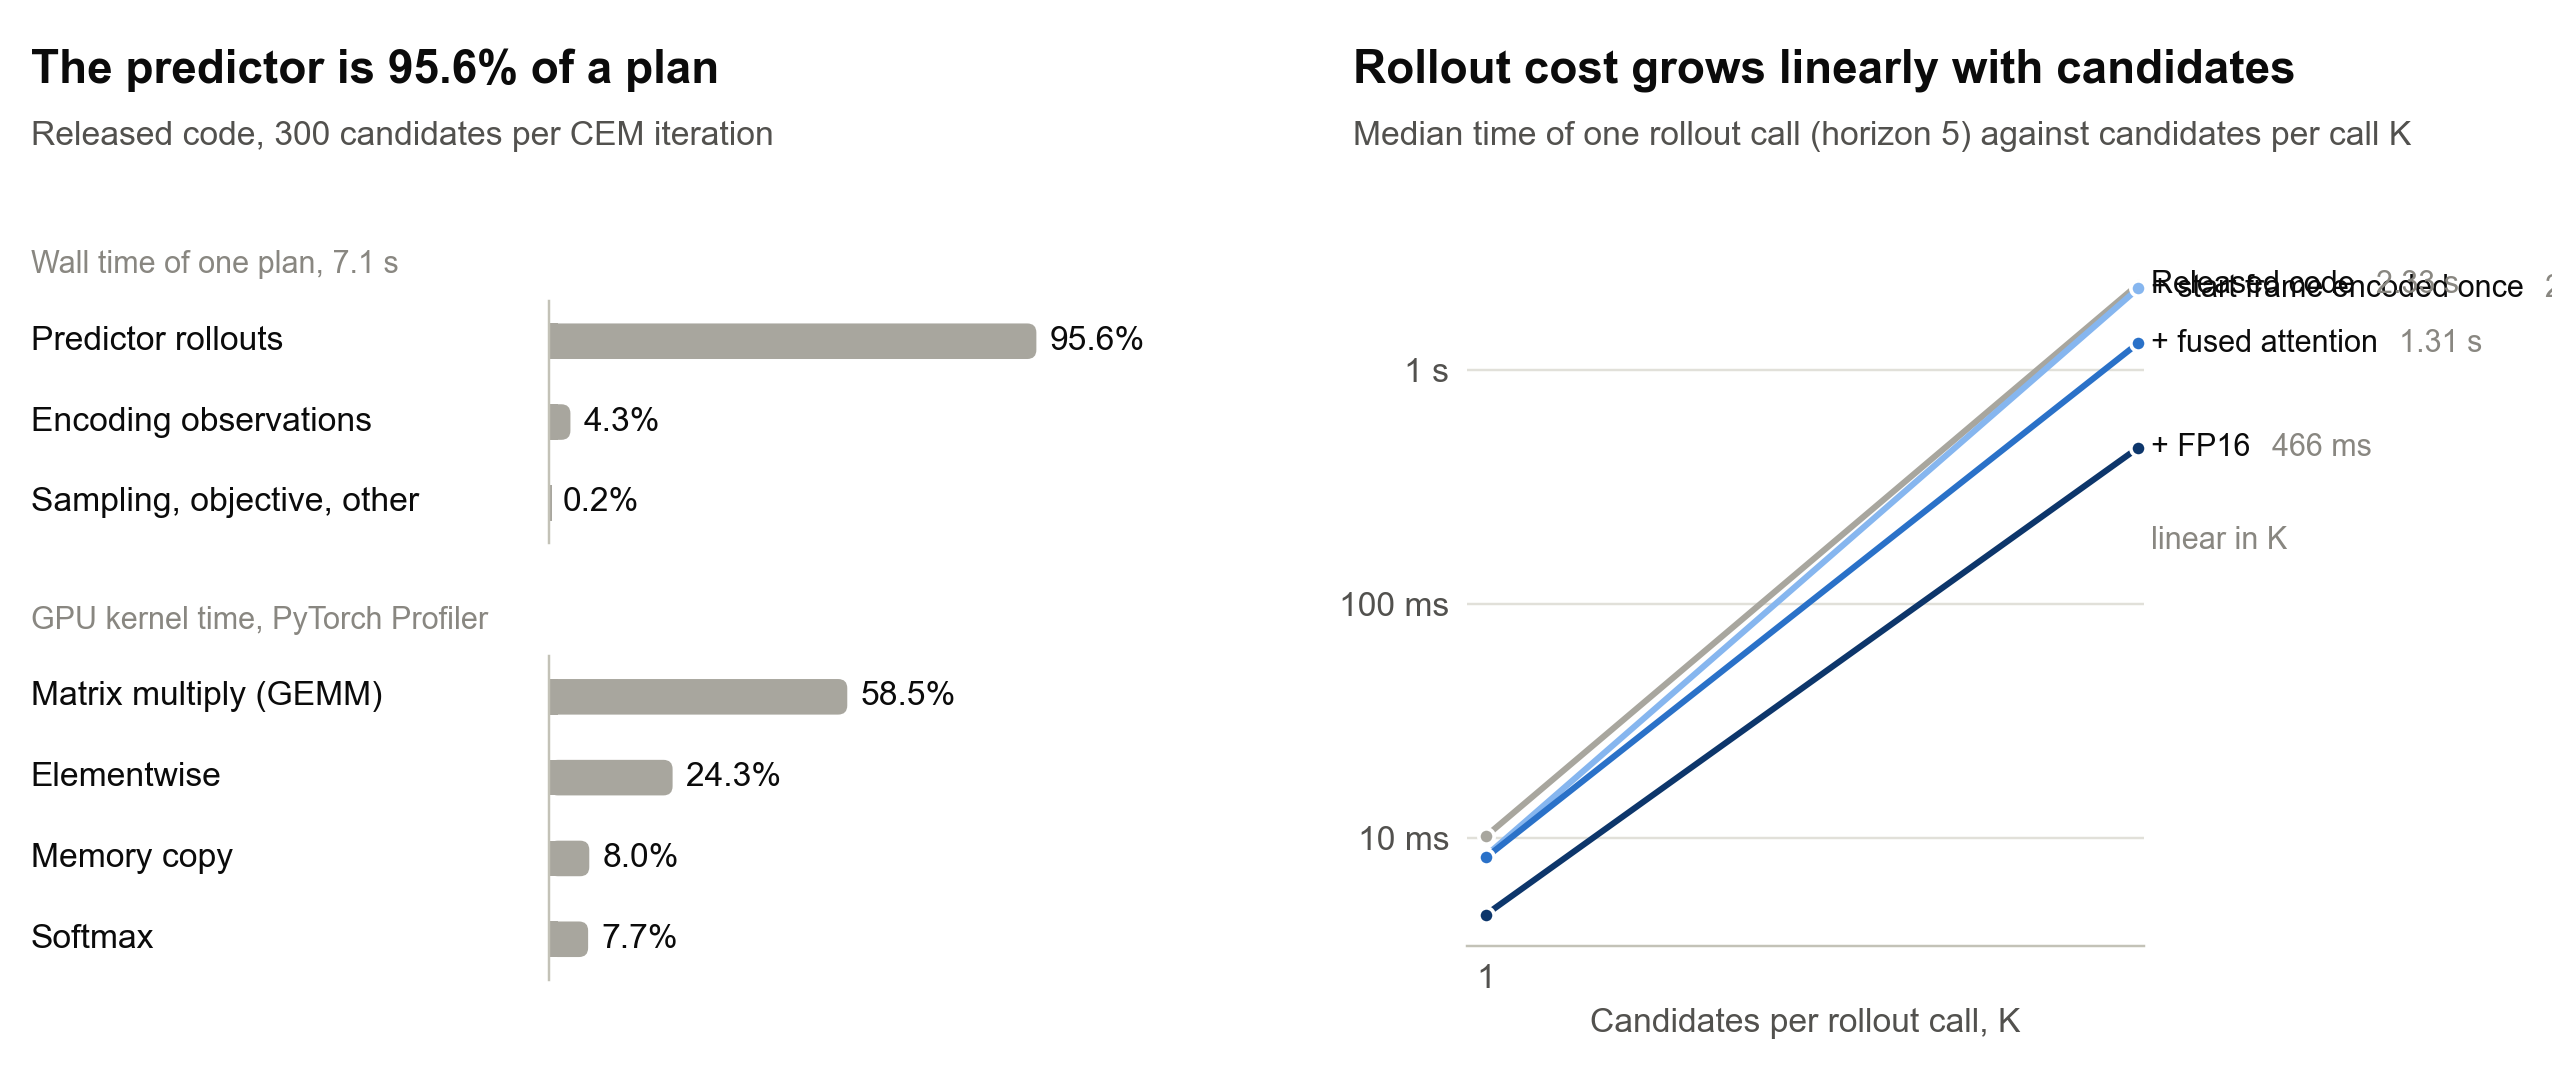
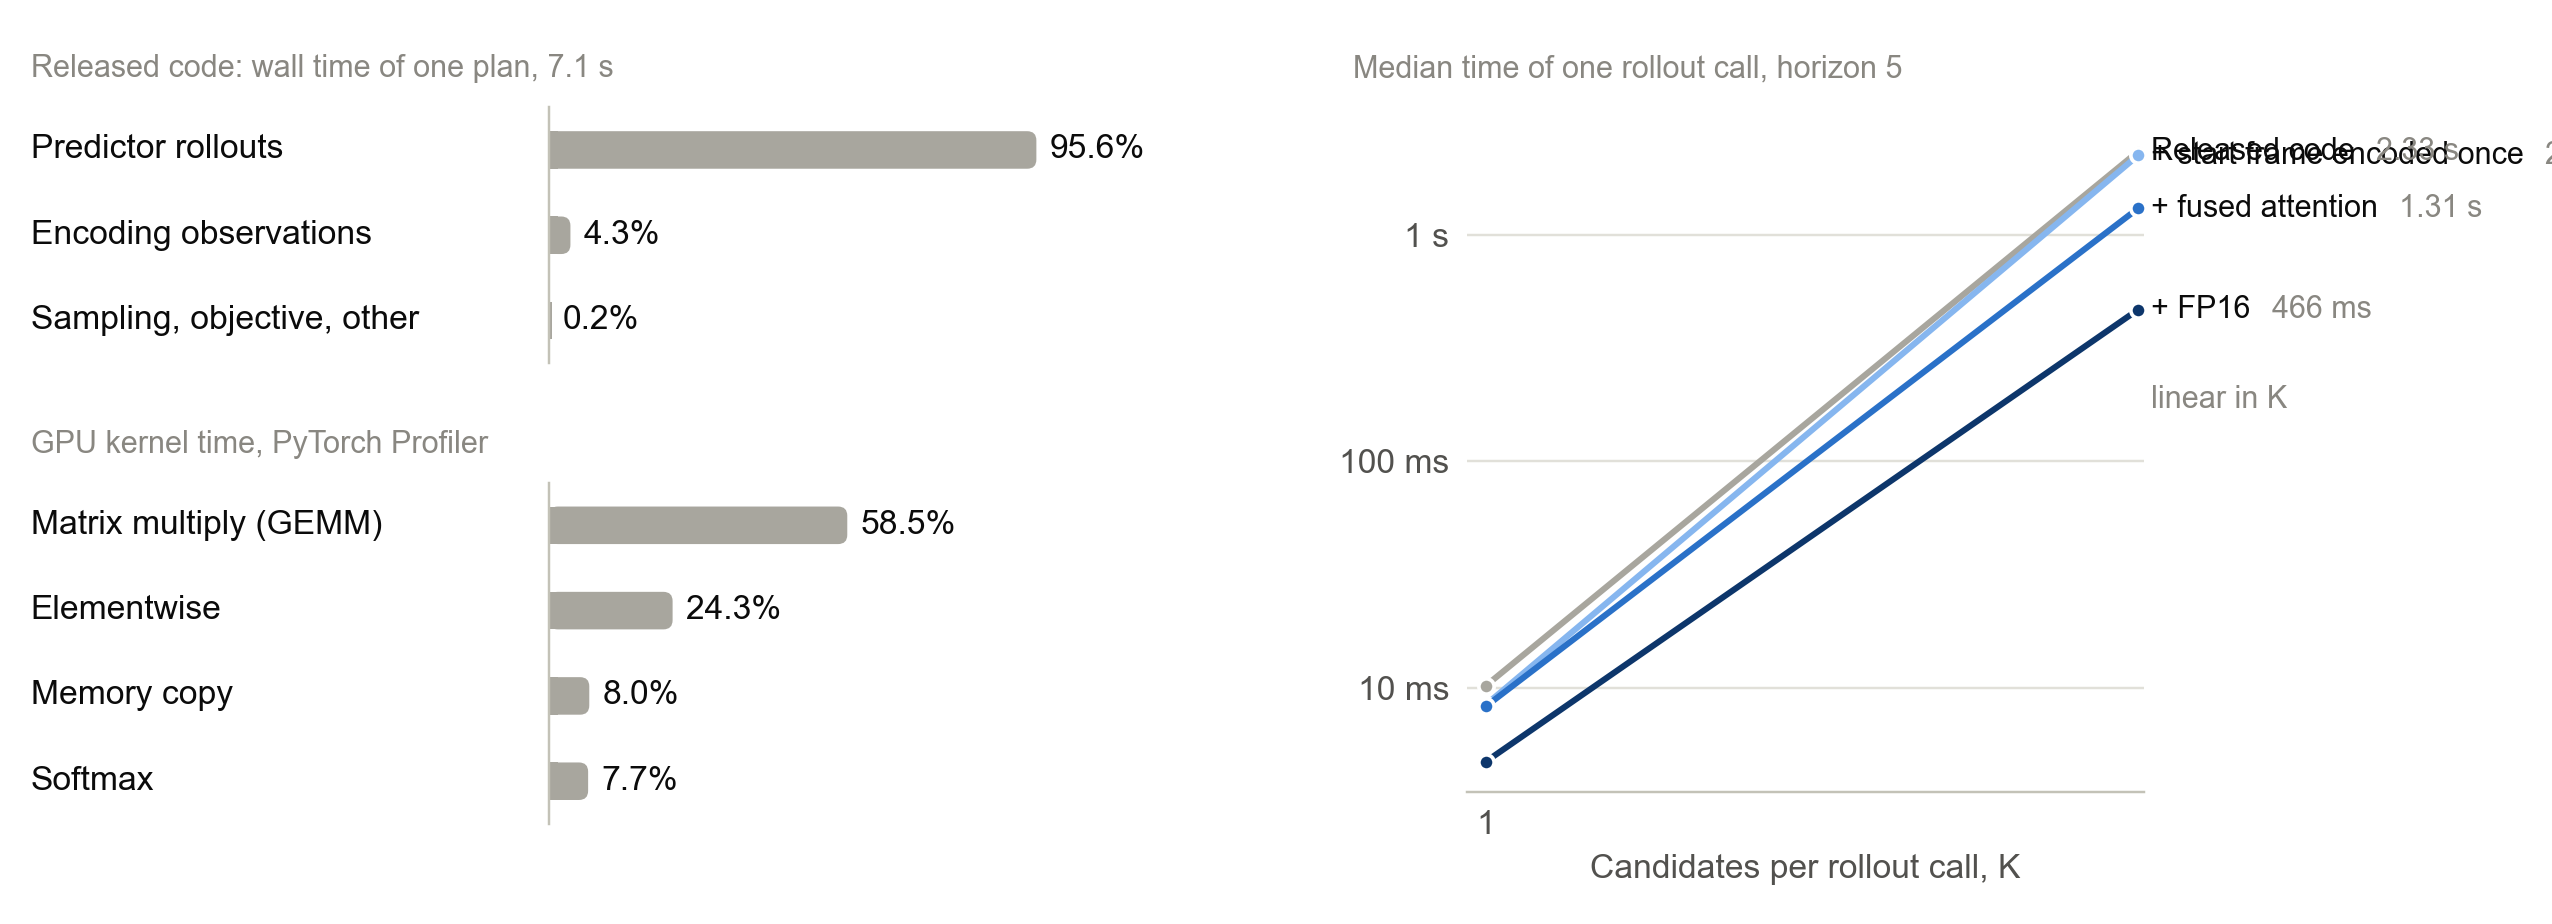
Figures: drop the headline titles, one plain caption per panel

diff --git a/bench/summarize.py b/bench/summarize.py
@@ -113,17 +113,10 @@ if V:
 
     # summary.png: one row per variant, read as a table with the plan time drawn as a bar
     names = list(V); n = len(names); best = min(V.values(), key=lambda v: v["latency_median_s"])
-    fig = plt.figure(figsize=(11.6, 1.85 + 0.47 * n)); H = fig.get_figheight(); top, bot = 1 - 1.1 / H, 0.75 / H
+    fig = plt.figure(figsize=(11.6, 1.2 + 0.47 * n)); H = fig.get_figheight(); top, bot = 1 - 0.42 / H, 0.75 / H
     ax = fig.add_axes([0.375, bot, 0.30, top - bot]); row = blended_transform_factory(fig.transFigure, ax.transData)
     hbars(ax, [V[k]["latency_median_s"] for k in names], [GRAY if V[k] is base else BLUE for k in names],
           lambda v: f"{v:.1f} s", 1.2 * max(V[k]["latency_median_s"] for k in names))
-    off = "official" in V  # a run without the released code as its first row gets a plain title and no step note
-    fig.text(0.012, 1 - 0.32 / H, (f"One plan takes {base['latency_median_s']:.1f} s with the released code and "
-                                   f"{best['latency_median_s']:.1f} s optimized") if off else
-             f"Median time per plan: {base['latency_median_s']:.1f} s for {base['variant']}, {best['latency_median_s']:.1f} s at best",
-             fontsize=15, fontweight="bold", va="center")
-    fig.text(0.012, 1 - 0.62 / H, f"{M['n_tasks']} paired PushT tasks on one {gpu}; each plan is {M['cem_opt_steps']} CEM iterations "
-             f"of {M['batch_candidates']} candidates", fontsize=11, color=INK2, va="center")
     cols = [(0.012, "left", "Planner variant"), (0.375, "left", "Median time per plan"), (0.775, "right", "Speedup"),
             (0.89, "right", "Peak GPU memory"), (0.988, "right", "Tasks solved")]
     for x, ha, text in cols:
@@ -137,12 +130,11 @@ if V:
                  f"{sum(v['success'])}/{len(v['success'])}"]
         for (x, ha, _), text in zip(cols[2:], cells):
             ax.text(x, y, text, transform=row, ha=ha, va="center", fontweight=bold)
-    fig.text(0.012, 0.45 / H, f"Conditions: {gpu}, PyTorch {M['torch'].split('+')[0]}, CUDA {M['cuda']}; fp32, FP16 autocast where named; "
-             f"{M['warmup_plans']} warm-up plan discarded, then {M['repetitions']}; seed {M['seed']}; GPU-synchronized timer.",
+    fig.text(0.012, 0.45 / H, f"{M['n_tasks']} paired PushT tasks, {M['cem_opt_steps']} CEM iterations of {M['batch_candidates']} candidates, "
+             f"seed {M['seed']}. {M['warmup_plans']} warm-up plan discarded, then {M['repetitions']}. GPU-synchronized timer.",
              fontsize=10, color=INK2, va="center")
-    fig.text(0.012, 0.2 / H, "Speedup is the ratio of mean plan times against the first row."
-             + (" Rows 2 to 4 each add to the row above; the FP16 rows build on fused attention." if off else ""),
-             fontsize=10, color=INK2, va="center")
+    fig.text(0.012, 0.2 / H, f"{gpu}, PyTorch {M['torch'].split('+')[0]}, CUDA {M['cuda']}. fp32, FP16 autocast where named. "
+             "Speedup: mean plan time relative to the first row.", fontsize=10, color=INK2, va="center")
     fig.savefig(path.with_name("summary.png")); plt.close(fig)
 
 print("\nRollout vs the official rollout on identical inputs (one task, all candidates):\n")
@@ -166,9 +158,9 @@ if R.get("scaling"):
     for K in Ks:
         print(f"| {K} | " + " | ".join(f"{get[n, K]['median_ms']:.1f} ({get[n, K]['peak_mem_alloc_mb']:.0f})" if (n, K) in get else "OOM" for n in names) + " |")
     # scaling.png: where the released code spends a plan (left), and what one rollout call costs against K (right)
-    fig = plt.figure(figsize=(11.6, 4.9)); H = fig.get_figheight()
+    fig = plt.figure(figsize=(11.6, 4.2)); H = fig.get_figheight()
     ph = base["phase_seconds_per_plan"]; tot = sum(ph.values())
-    groups = [(f"Wall time of one plan, {tot:.1f} s", [("Predictor rollouts", ph.get("predict", 0) / tot),
+    groups = [(f"{LABEL.get(base['variant'], base['variant'])}: wall time of one plan, {tot:.1f} s", [("Predictor rollouts", ph.get("predict", 0) / tot),
                ("Encoding observations", ph.get("encode_obs", 0) / tot),
                ("Sampling, objective, other", 1 - (ph.get("predict", 0) + ph.get("encode_obs", 0)) / tot)])]
     g = (kern if R.get("profile_top_ops") else {}).get(base["variant"])
@@ -176,11 +168,7 @@ if R.get("scaling"):
         short = {"GEMM (linear layers, attention matmul)": "Matrix multiply (GEMM)", "memcpy": "Memory copy"}
         groups.append(("GPU kernel time, PyTorch Profiler", [(short.get(k, k[0].upper() + k[1:]), f) for k, f in
                                                              sorted(g.items(), key=lambda x: -x[1]) if f >= 0.01]))
-    fig.text(0.012, 1 - 0.32 / H, f"The predictor is {100 * ph.get('predict', 0) / tot:.1f}% of a plan", fontsize=15,
-             fontweight="bold", va="center")
-    fig.text(0.012, 1 - 0.62 / H, f"{LABEL.get(base['variant'], base['variant'])}, {M['batch_candidates']} candidates per CEM iteration", fontsize=11,
-             color=INK2, va="center")
-    rows_total = sum(len(r) + 1.4 for _, r in groups); y1 = 1 - 1.0 / H; unit = (y1 - 0.3 / H) / rows_total
+    rows_total = sum(len(r) + 1.4 for _, r in groups); y1 = 1 - 0.1 / H; unit = (y1 - 0.3 / H) / rows_total
     for title, rws in groups:
         fig.text(0.012, y1 - 0.55 * unit, title, fontsize=10, color=MUTED, va="center")
         ax = fig.add_axes([0.215, y1 - (len(rws) + 1) * unit, 0.25, len(rws) * unit])
@@ -189,10 +177,8 @@ if R.get("scaling"):
             ax.text(0.012, y, name, transform=blended_transform_factory(fig.transFigure, ax.transData), va="center")
         y1 -= (len(rws) + 1.4) * unit
 
-    x0 = 0.53; ax = fig.add_axes([x0 + 0.045, 0.6 / H, 0.265, 1 - 1.75 / H])
-    fig.text(x0, 1 - 0.32 / H, "Rollout cost grows linearly with candidates", fontsize=15, fontweight="bold", va="center")
-    fig.text(x0, 1 - 0.62 / H, f"Median time of one rollout call (horizon {M['horizon']}) against candidates per call K",
-             fontsize=11, color=INK2, va="center")
+    x0 = 0.53; ax = fig.add_axes([x0 + 0.045, 0.6 / H, 0.265, 1 - 1.15 / H])
+    fig.text(x0, 1 - 0.1 / H - 0.55 * unit, f"Median time of one rollout call, horizon {M['horizon']}", fontsize=10, color=MUTED, va="center")
     others = [k for k in names if k != base["variant"]]
     color = {k: plt.matplotlib.colors.LinearSegmentedColormap.from_list("r", RAMP)(i / max(len(others) - 1, 1))
              for i, k in enumerate(others)} | {base["variant"]: GRAY}
